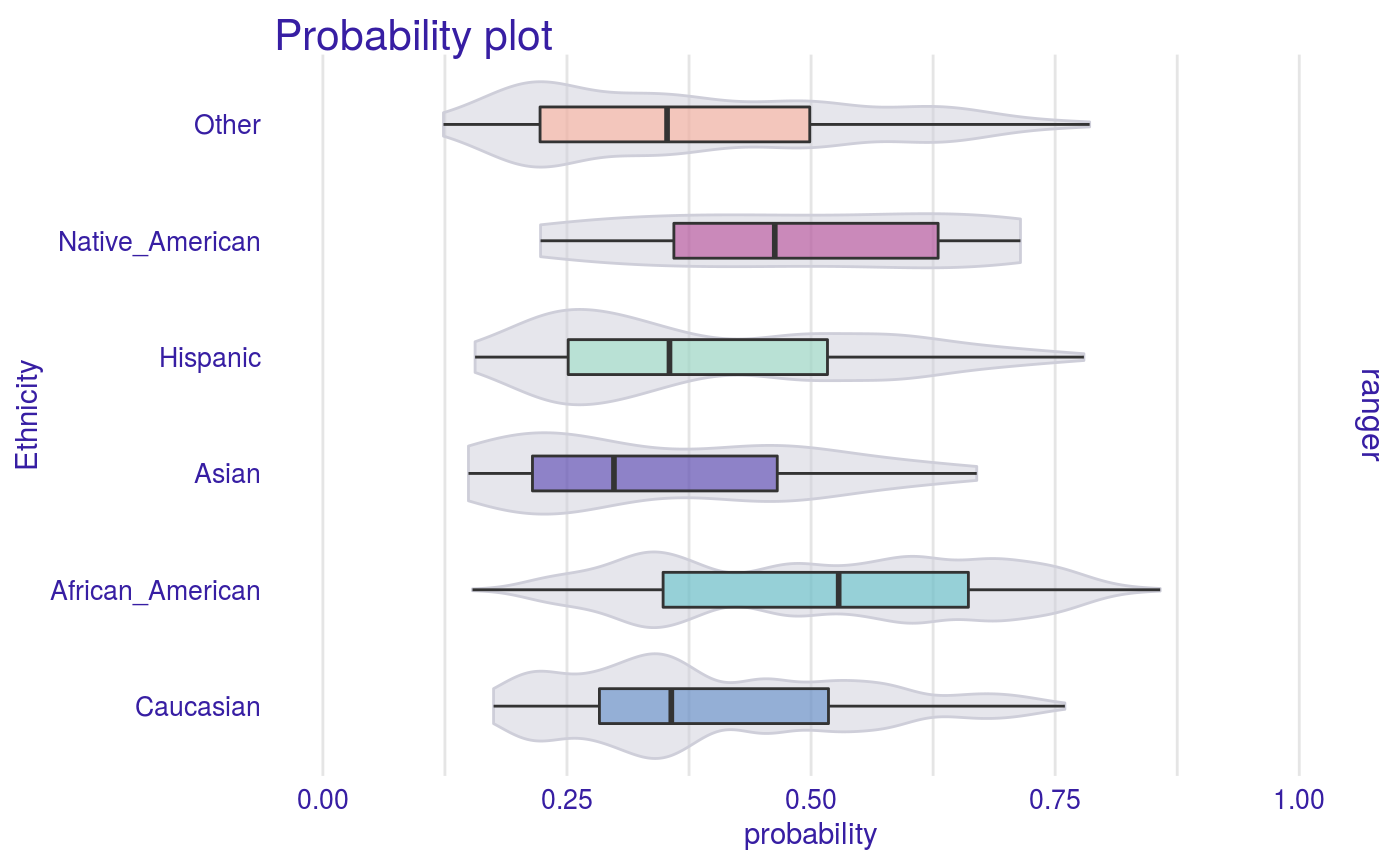
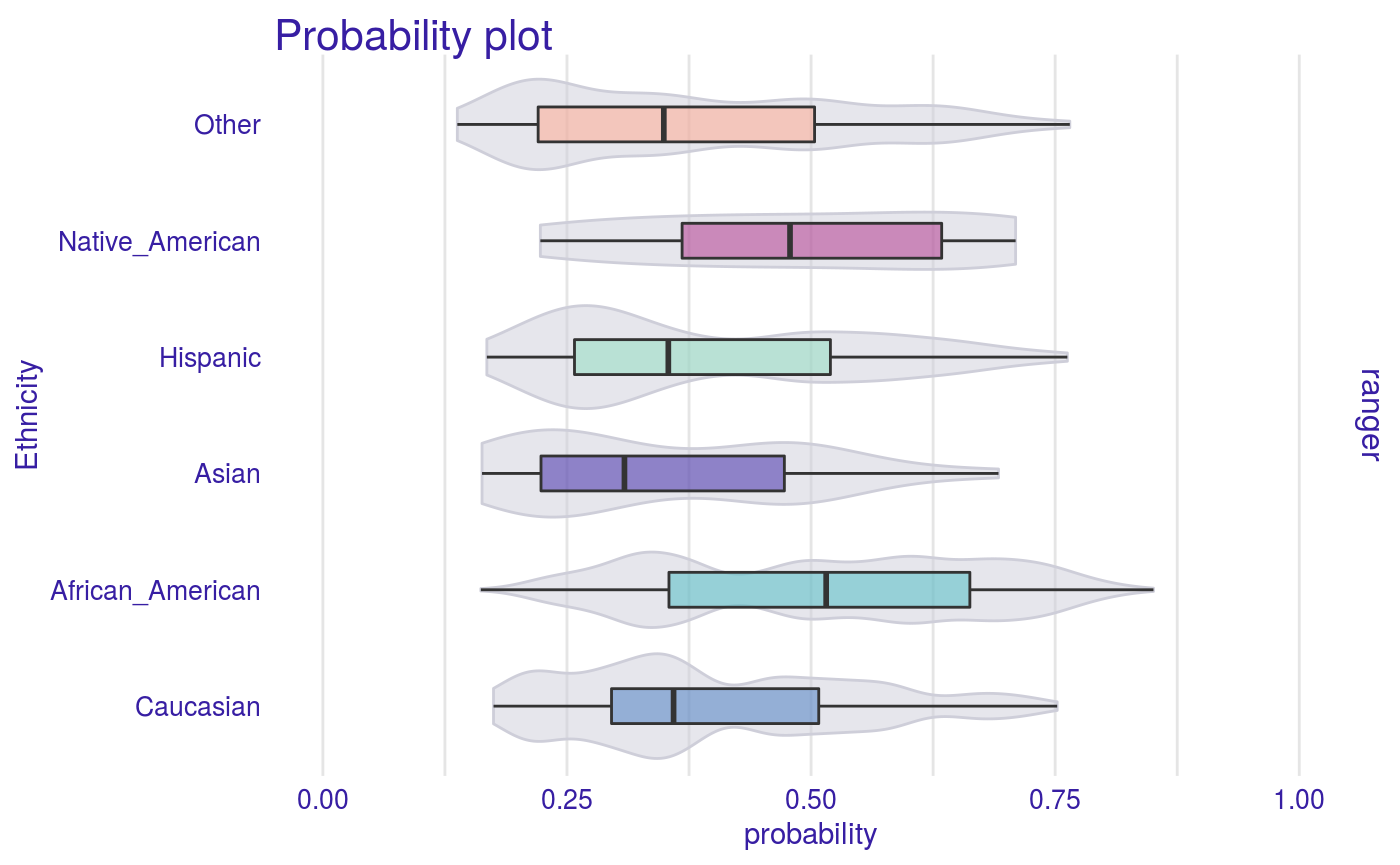
remove duplicates

diff --git a/docs/articles/tutorial.html b/docs/articles/tutorial.html
@@ -146,9 +146,9 @@
 #&gt;   -&gt; target variable   :  6172  values 
 #&gt;   -&gt; model_info        :  package ranger , ver. 0.12.1 , task classification ( [33m default [39m ) 
 #&gt;   -&gt; predict function  :  yhat.ranger  will be used ( [33m default [39m )
-#&gt;   -&gt; predicted values  :  numerical, min =  0.1235118 , mean =  0.454839 , max =  0.8575573  
+#&gt;   -&gt; predicted values  :  numerical, min =  0.1376987 , mean =  0.4552565 , max =  0.8506907  
 #&gt;   -&gt; residual function :  difference between y and yhat ( [33m default [39m )
-#&gt;   -&gt; residuals         :  numerical, min =  -0.7924502 , mean =  0.0002808535 , max =  0.8460769  
+#&gt;   -&gt; residuals         :  numerical, min =  -0.7883219 , mean =  -0.0001366436 , max =  0.8356823  
 #&gt;  [32m A new explainer has been created! [39m</code></pre>
 <p>Than we create <code>fairness_object</code> with <code><a href="../reference/create_fairness_object.html">create_fairness_object()</a></code></p>
 <div class="sourceCode" id="cb6"><html><body><pre class="r"><span class="no">fobject</span> <span class="kw">&lt;-</span> <span class="fu"><a href="../reference/create_fairness_object.html">create_fairness_object</a></span>(<span class="no">rf_explainer</span>,
